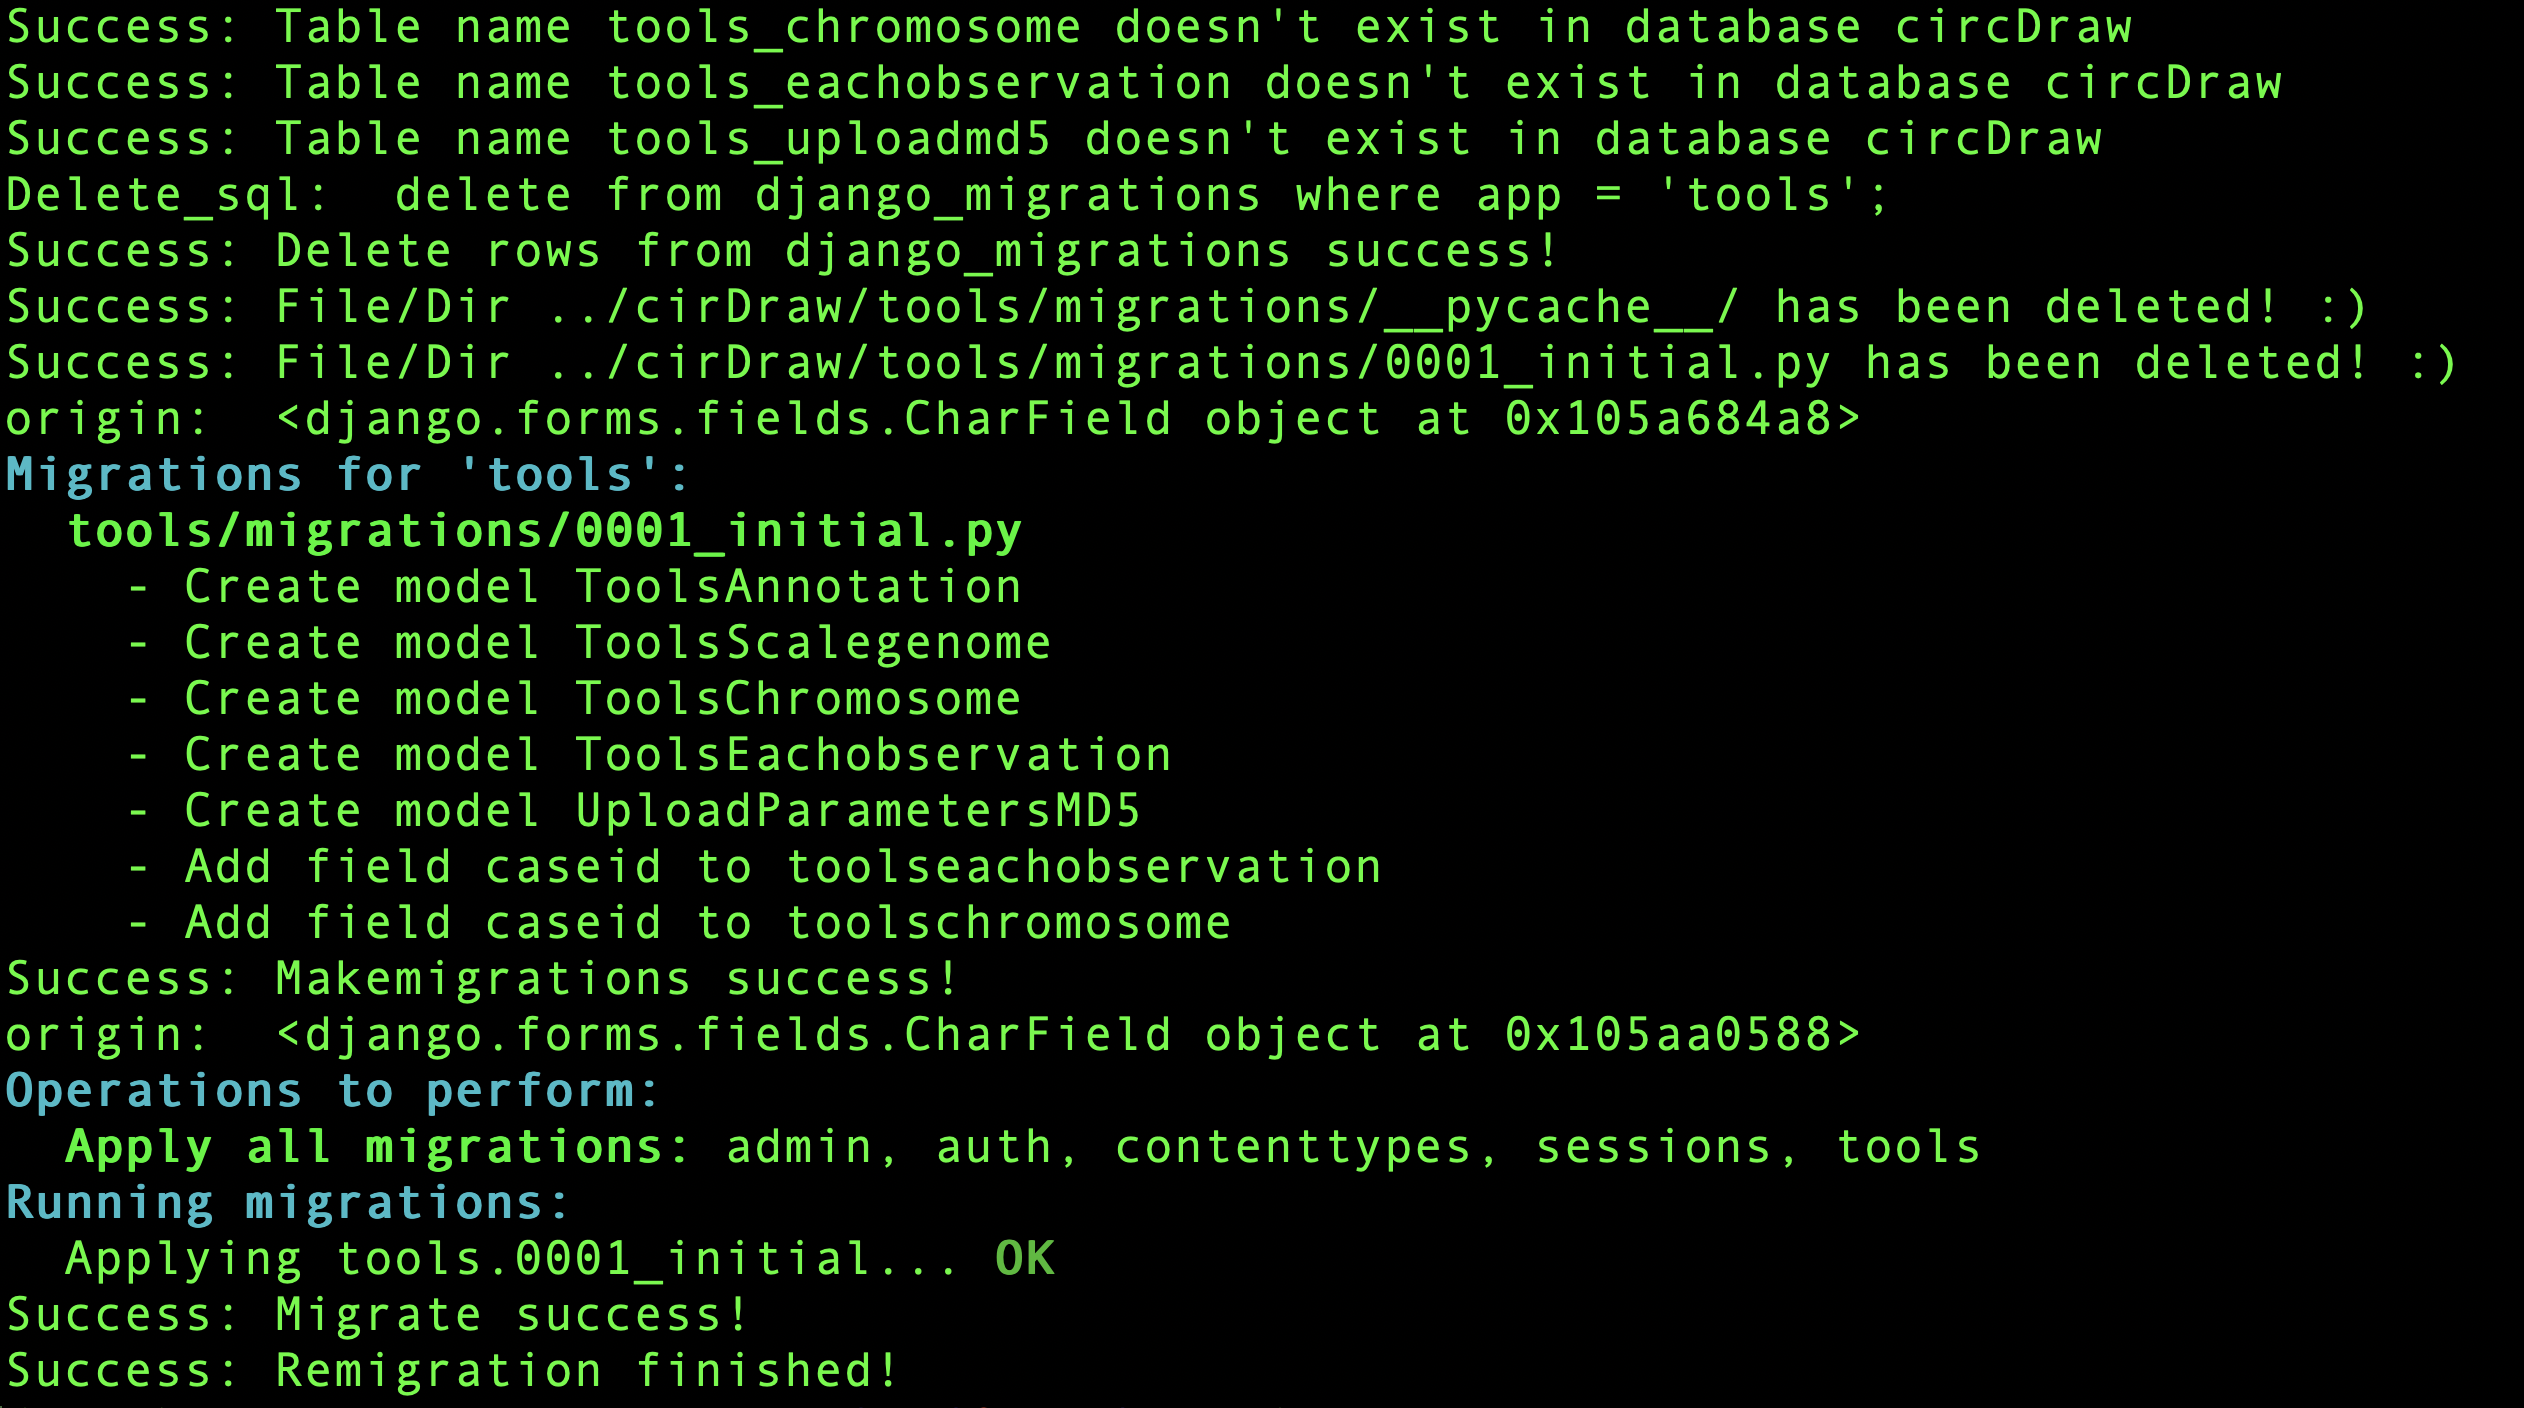
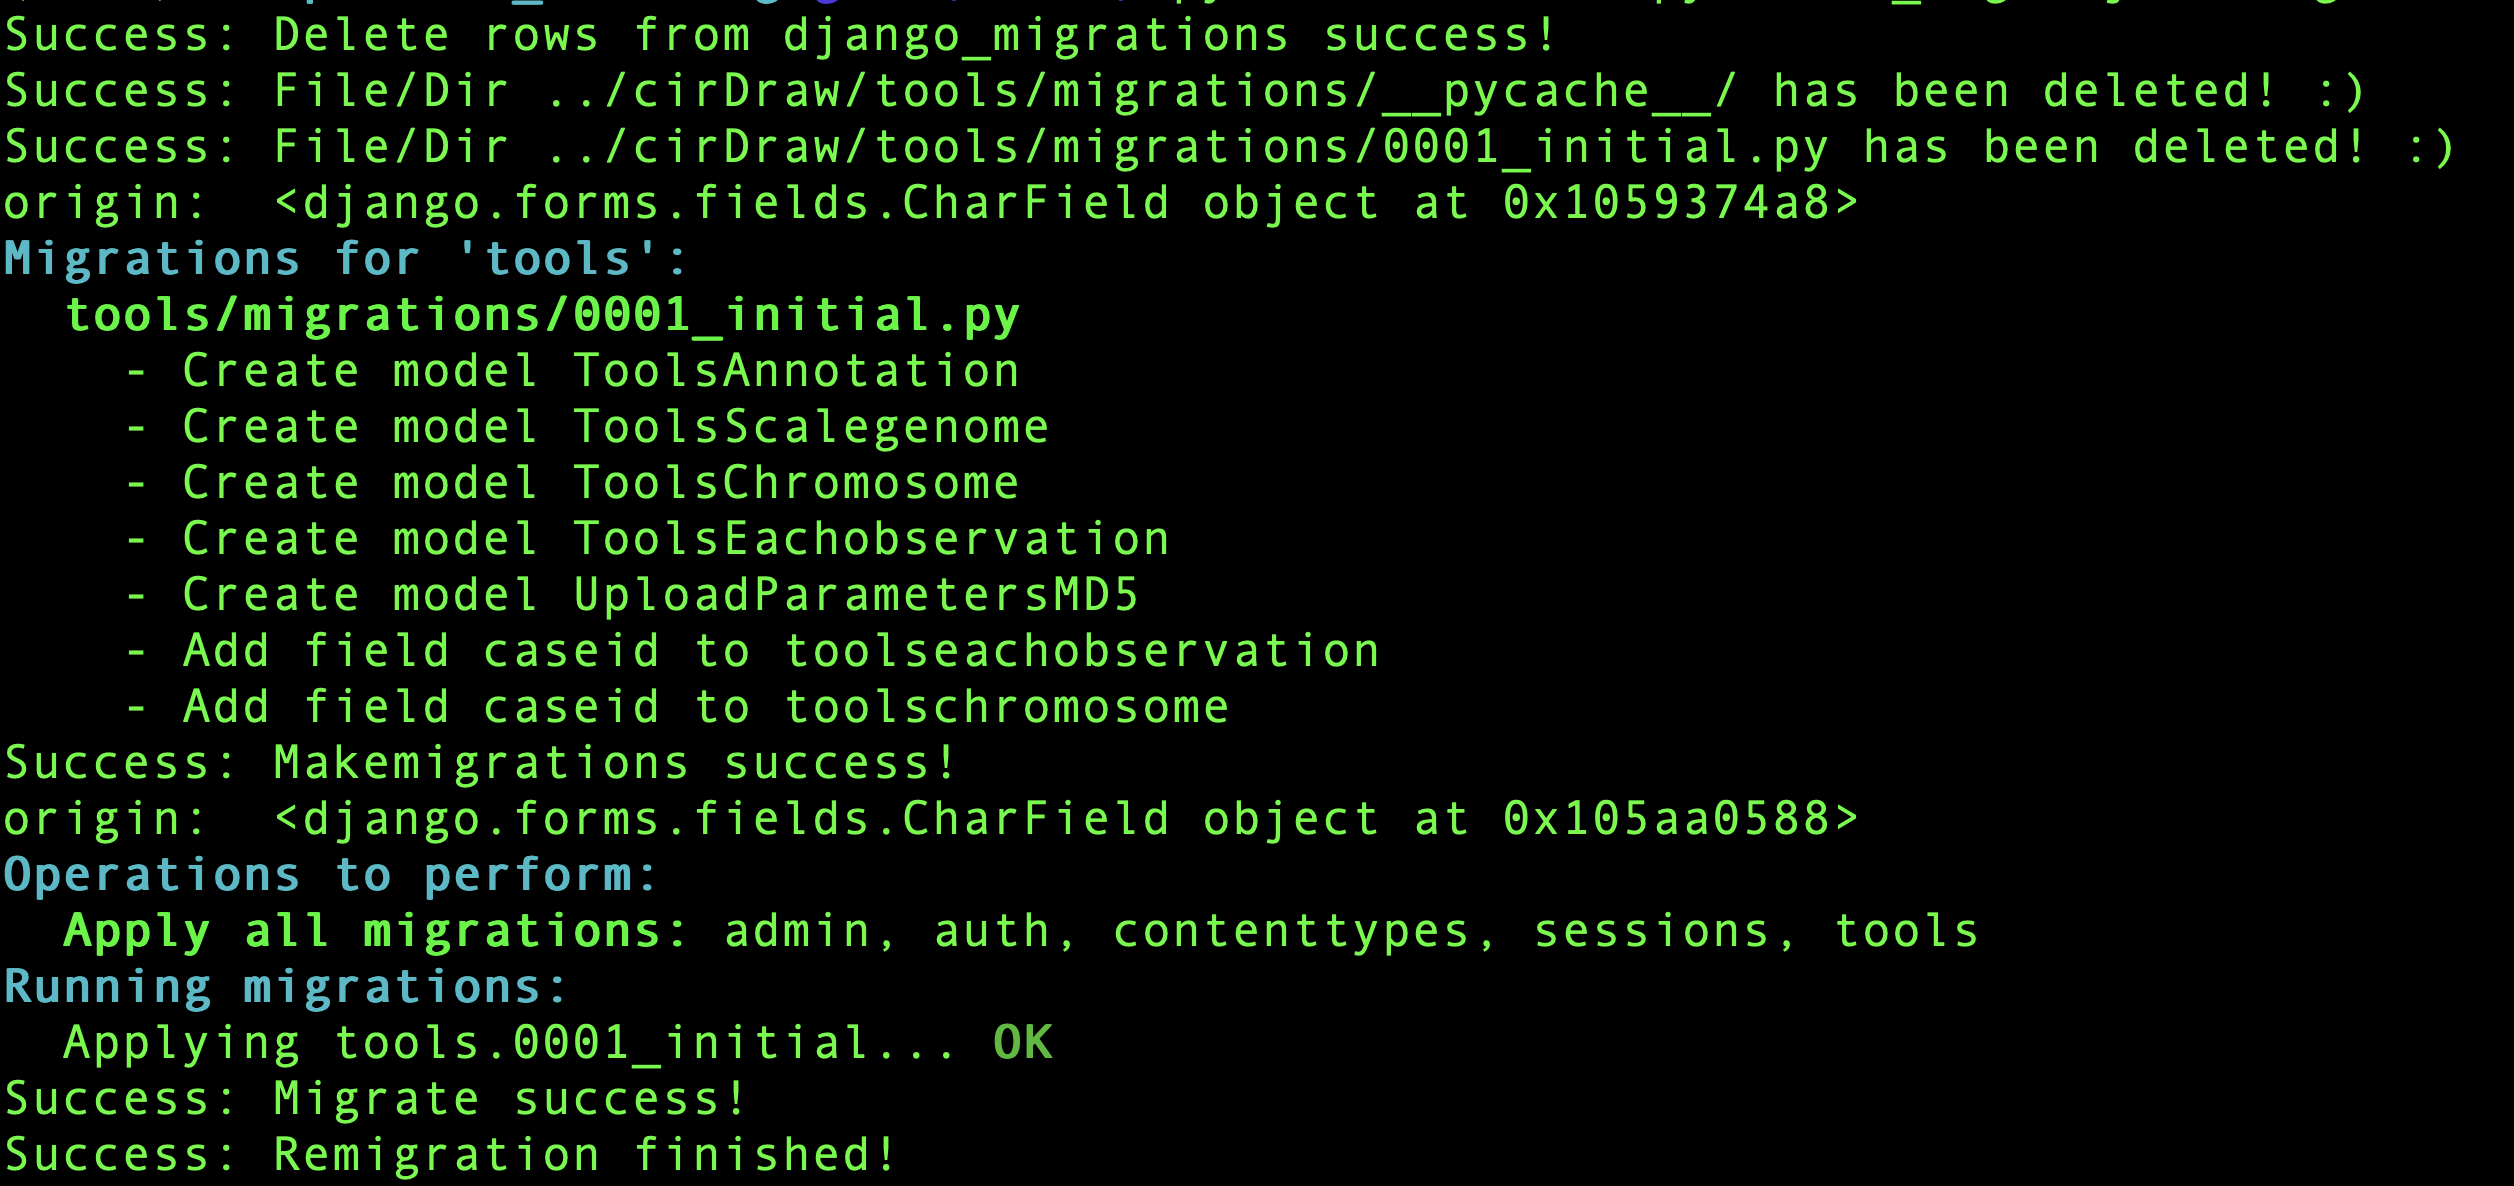
change pictures

Changed region(s): [[0.0, 0.0, 0.9308, 0.9983], [0.3723, 0.7799, 0.7757, 0.8423], [0.3723, 0.8735, 0.4344, 0.9047]]

diff --git a/cirDraw/tools/migrations/0001_initial.py b/cirDraw/tools/migrations/0001_initial.py
@@ -1,4 +1,4 @@
-# Generated by Django 2.1.4 on 2019-03-18 06:40
+# Generated by Django 2.1.4 on 2019-03-18 07:08
 
 from django.db import migrations, models
 import django.db.models.deletion
